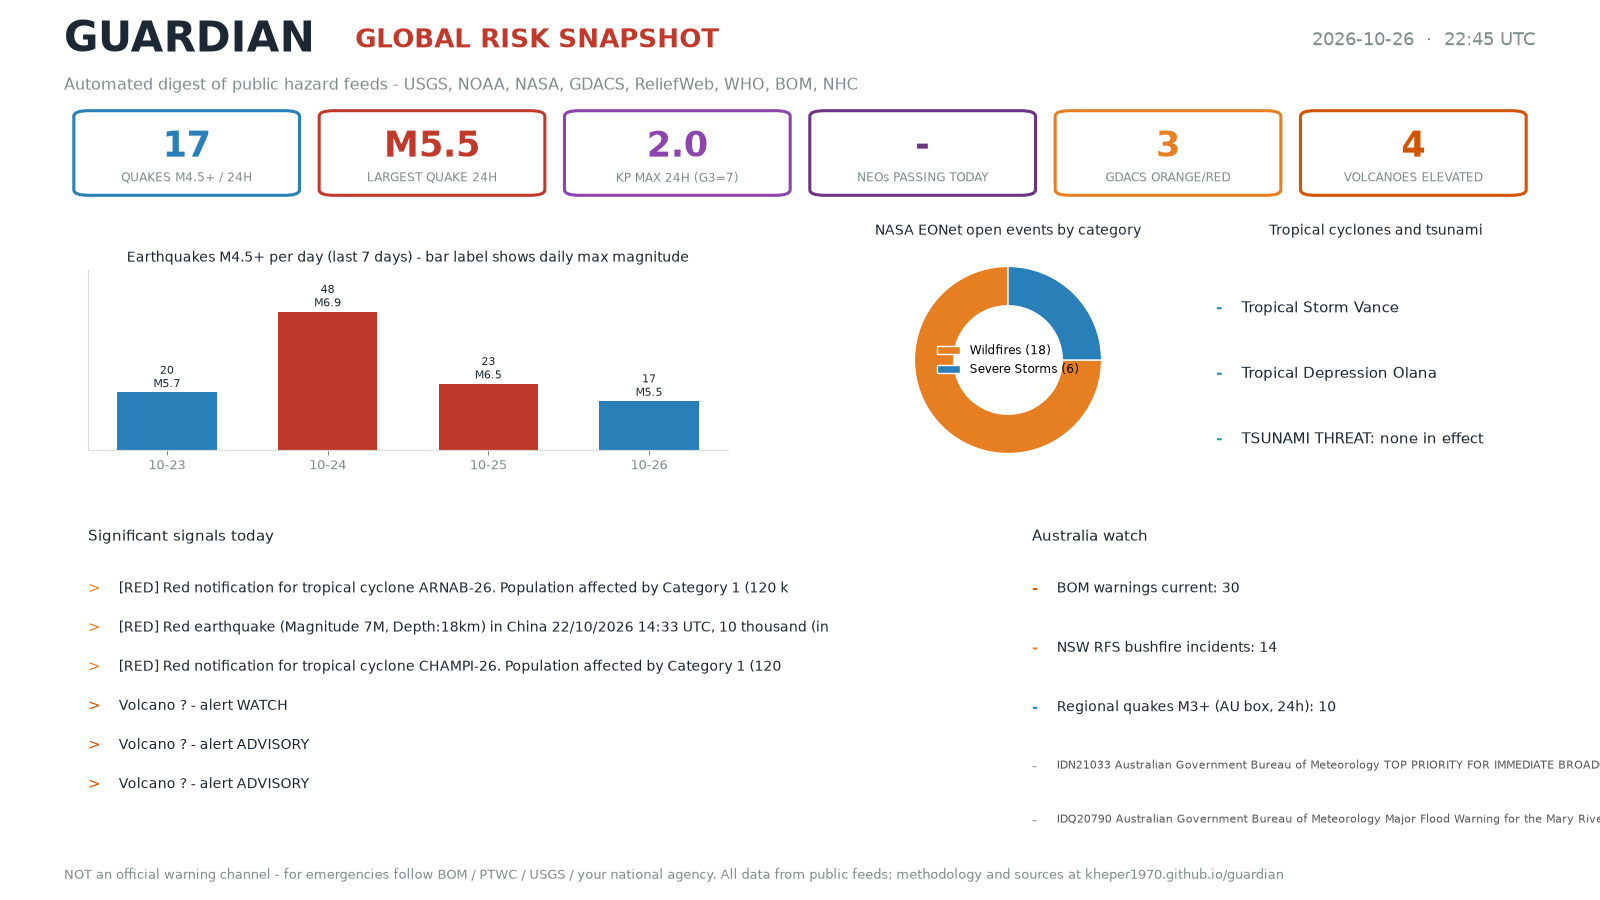
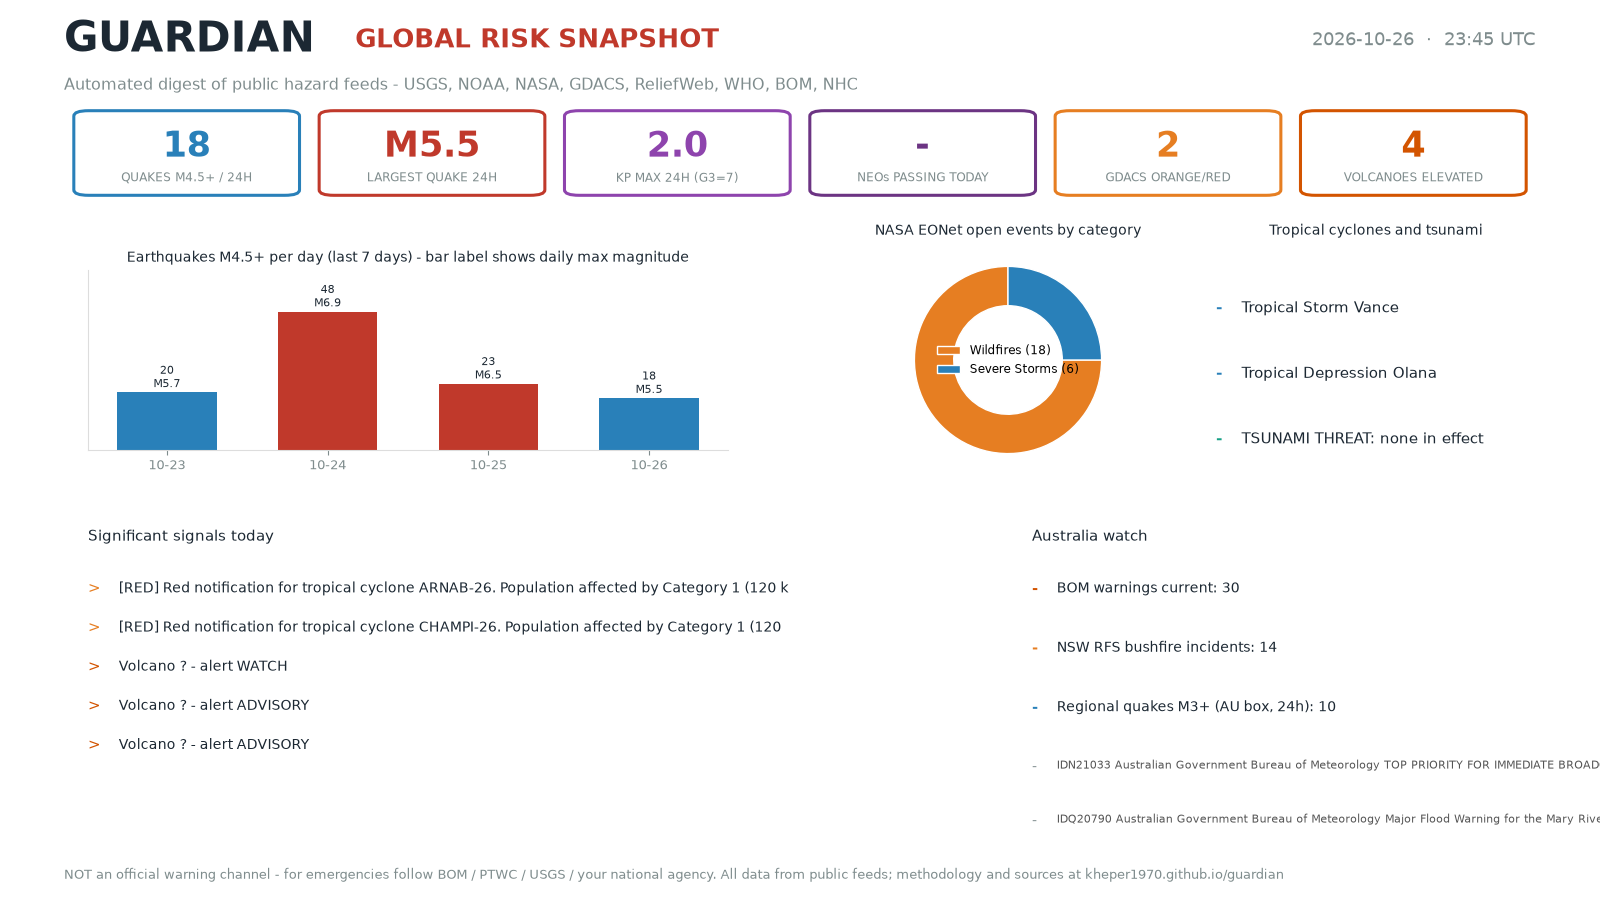
Automated update 2026-10-26T23:50Z

diff --git a/briefing/briefing_2026-10-26.html b/briefing/briefing_2026-10-26.html
@@ -80,7 +80,7 @@ or your national emergency agency.</p>
 <h1>Guardian daily briefing — 2026-10-26</h1>
 <p>Generated automatically from public feeds (USGS, NOAA, NASA, WHO, GDACS, ReliefWeb, EONet, Google News). All times UTC.</p>
 <h2>Earthquakes (M4.5+, last 24h)</h2>
-<p>Count: 17
+<p>Count: 18
 - M5.5 283 km E of Levuka, Fiji (2026-10-26 10:13 UTC)
 - M5.2 205 km NW of Port-Olry, Vanuatu (2026-10-26 12:13 UTC)
 - M5 218 km NW of Port-Olry, Vanuatu (2026-10-26 11:17 UTC)
@@ -89,7 +89,7 @@ or your national emergency agency.</p>
 - M4.9 205 km NW of Port-Olry, Vanuatu (2026-10-26 01:22 UTC)
 - M4.8 South Sandwich Islands region (2026-10-26 11:01 UTC)
 - M4.8 182 km NW of Port-Olry, Vanuatu (2026-10-26 04:53 UTC)
-- ...and 9 more</p>
+- ...and 10 more</p>
 <h2>Space weather</h2>
 <ul>
 <li>Kp now: 0.67; max last 24h: 2.0 (storm threshold G3 = Kp 7.0)</li>
@@ -102,7 +102,6 @@ or your national emergency agency.</p>
 <h2>GDACS significant alerts (orange/red)</h2>
 <ul>
 <li>[RED] (2026-10-26 01:51 UTC) Red notification for tropical cyclone ARNAB-26. Population affected by Category 1 (120 km/h) wind speeds or higher is 6.028 million .</li>
-<li>[RED] (2026-10-22 14:54 UTC) Red earthquake (Magnitude 7M, Depth:18km) in China 22/10/2026 14:33 UTC, 10 thousand (in MMI&gt;=VII).</li>
 <li>[RED] (2026-10-14 14:31 UTC) Red notification for tropical cyclone CHAMPI-26. Population affected by Category 1 (120 km/h) wind speeds or higher is 0.291 million .</li>
 </ul>
 <h2>Tsunami (NOAA NTWC)</h2>
@@ -157,35 +156,35 @@ or your national emergency agency.</p>
 </ul>
 <h2>Food security watch (Google News: famine keywords)</h2>
 <ul>
-<li>Sudan: Famine Risk Is Rising in Sudan As 19.5 Million Face Acute Hunger - UK-Led Warning - allAfrica.com (Mon, 26 Oct 2026)</li>
 <li>UK households urged to prepare for emergencies and ‘attacks’ in new government guidance - The Independent (Mon, 26 Oct 2026)</li>
-<li>Food insecurity and child malnutrition worsen in Afghanistan despite strong agricultural season - World Food Program USA (Thu, 15 Oct 2026)</li>
+<li>Sudan: Famine Risk Is Rising in Sudan As 19.5 Million Face Acute Hunger - UK-Led Warning - allAfrica.com (Mon, 26 Oct 2026)</li>
 <li>UK, 31 partners warn of rising famine risk in Sudan, call for urgent action - Anadolu Ajansı (Fri, 23 Oct 2026)</li>
 <li>Food insecurity hits Uganda as government, UN appeal for urgent action - Daily Monitor (Mon, 26 Oct 2026)</li>
-<li>Can emergency cash buy food security? - UNU | United Nations University (Wed, 08 Jul 2026)</li>
+<li>FAO's Global Emergency and Resilience Appeal 2026 | FAO Emergency and Resilience - Food and Agriculture Organization (Mon, 19 Oct 2026)</li>
+<li>Somalia - UN World Food Programme (Mon, 24 Aug 2026)</li>
 </ul>
 <h2>Australia watch (ABC News, NSW RFS, USGS AU quakes, GNews AU, health.gov.au)</h2>
 <ul>
-<li>Choreographer behind Kylie's grand final show prepares to reveal final work (Mon, 26 Oct 2026)</li>
-<li>Veteran rugby prop cited for allegedly grabbing opponent's genitals (Mon, 26 Oct 2026)</li>
-<li>Country residents paying three times to keep local doctors (Mon, 26 Oct 2026)</li>
-<li>Breaking: Earthquake reported by residents around Adelaide (Mon, 26 Oct 2026)</li>
-<li>Fines of up to $120k for dumping pet fish in Adelaide river (Mon, 26 Oct 2026)</li>
-<li>NSW RFS current incidents: 10 (0 at Warning level)</li>
+<li>Kane breaks 25-year English drought to claim top football award (Mon, 26 Oct 2026)</li>
+<li>Armed bandits killed in getaway car rollover and shootout with PNG police (Mon, 26 Oct 2026)</li>
+<li>Dying SES employee fights to have workers' compensation claim recognised (Mon, 26 Oct 2026)</li>
+<li>Sydney house erupts in flames in suspected arson attack (Mon, 26 Oct 2026)</li>
+<li>Outback mining jobs are on the rise, with no workers to fill them (Mon, 26 Oct 2026)</li>
+<li>NSW RFS current incidents: 13 (0 at Warning level)</li>
 <li>AU-region quakes (24h): 10, max M4.8</li>
 <li>M4.7 98 km S of Encounter Bay, Australia</li>
 <li>M4.8 41 km WNW of Kupang, Indonesia</li>
 <li>M4.3 248 km SW of Tambolaka, Indonesia</li>
 <li>AU emergency headlines:</li>
-<li>Multiple flood warnings as Queensland braces for more wild weather - ABC News &amp; Headlines – Australian Broadcasting Corporation (Sat, 24 Oct 2026)</li>
 <li>Flood warnings and water shortages after storm - Yahoo News Australia (Mon, 26 Oct 2026)</li>
 <li>Dairy farmer and former councillor found dead in Queensland floods - Nine.com.au (Mon, 26 Oct 2026)</li>
-<li>‘Unusually large’ multi-state storm causing severe weather for Australia’s east – with more on the way - The Guardian (Sun, 25 Oct 2026)</li>
+<li>Woman spearheads bushfire safety push after friends 'didn't know what to do' - ABC News &amp; Headlines – Australian Broadcasting Corporation (Mon, 26 Oct 2026)</li>
 <li>Ex-councillor, farmer dies in floodwaters - News.com.au (Mon, 26 Oct 2026)</li>
+<li>‘Unusually large’ multi-state storm causing severe weather for Australia’s east – with more on the way - The Guardian (Sun, 25 Oct 2026)</li>
 <li>$245 million to strengthen local manufacturing for Australia’s defence capability - Marine Business News (Mon, 26 Oct 2026)</li>
-<li>To secure supply, Australia needs to engage with Africa’s mineral sovereignty - The Strategist | ASPI's analysis and commentary site (Mon, 26 Oct 2026)</li>
 <li>Former Rio Tinto executive tapped for major Defence role - AFR (Mon, 26 Oct 2026)</li>
 <li>Navantia Australia to launch underwater technology hub in Melbourne - Asia Pacific Defence Reporter (Mon, 26 Oct 2026)</li>
+<li>To secure supply, Australia needs to engage with Africa’s mineral sovereignty - The Strategist | ASPI's analysis and commentary site (Mon, 26 Oct 2026)</li>
 <li>health.gov.au:</li>
 <li>Secondary navigation</li>
 <li>You are here</li>

diff --git a/index.html b/index.html
@@ -85,8 +85,8 @@ or your national emergency agency.</p>
 refreshes with every publish.</p>
 </div>
 <div class="card"><h2 style="margin-top:0">Latest snapshot statistics</h2>
-<div class="statgrid"><div class="stat"><div class="n">17</div><div class="l">quakes M4.5+ / 24h</div></div><div class="stat"><div class="n">M5.5</div><div class="l">largest quake</div></div><div class="stat"><div class="n">2.0</div><div class="l">Kp max 24h</div></div><div class="stat"><div class="n">None</div><div class="l">NEOs today</div></div><div class="stat"><div class="n">3</div><div class="l">GDACS orange/red</div></div><div class="stat"><div class="n">4</div><div class="l">volcanoes elevated</div></div></div>
-<p style="color:#666666;font-size:.9rem">Snapshot taken 2026-10-26T22:45:02.049709+00:00 UTC.
+<div class="statgrid"><div class="stat"><div class="n">18</div><div class="l">quakes M4.5+ / 24h</div></div><div class="stat"><div class="n">M5.5</div><div class="l">largest quake</div></div><div class="stat"><div class="n">2.0</div><div class="l">Kp max 24h</div></div><div class="stat"><div class="n">None</div><div class="l">NEOs today</div></div><div class="stat"><div class="n">2</div><div class="l">GDACS orange/red</div></div><div class="stat"><div class="n">4</div><div class="l">volcanoes elevated</div></div></div>
+<p style="color:#666666;font-size:.9rem">Snapshot taken 2026-10-26T23:45:01.265498+00:00 UTC.
 Open the <a href="briefing/briefing_2026-10-26.html">full briefing</a> for details and sources.</p>
 </div>
 <div class="card"><h2 style="margin-top:0">Daily infographic</h2>

diff --git a/briefing/briefing_2026-10-26.md b/briefing/briefing_2026-10-26.md
@@ -3,7 +3,7 @@
 Generated automatically from public feeds (USGS, NOAA, NASA, WHO, GDACS, ReliefWeb, EONet, Google News). All times UTC.
 
 ## Earthquakes (M4.5+, last 24h)
-Count: 17
+Count: 18
 - M5.5 283 km E of Levuka, Fiji (2026-10-26 10:13 UTC)
 - M5.2 205 km NW of Port-Olry, Vanuatu (2026-10-26 12:13 UTC)
 - M5 218 km NW of Port-Olry, Vanuatu (2026-10-26 11:17 UTC)
@@ -12,7 +12,7 @@ Count: 17
 - M4.9 205 km NW of Port-Olry, Vanuatu (2026-10-26 01:22 UTC)
 - M4.8 South Sandwich Islands region (2026-10-26 11:01 UTC)
 - M4.8 182 km NW of Port-Olry, Vanuatu (2026-10-26 04:53 UTC)
-- ...and 9 more
+- ...and 10 more
 
 ## Space weather
 - Kp now: 0.67; max last 24h: 2.0 (storm threshold G3 = Kp 7.0)
@@ -25,7 +25,6 @@ Count: None
 
 ## GDACS significant alerts (orange/red)
 - [RED] (2026-10-26 01:51 UTC) Red notification for tropical cyclone ARNAB-26. Population affected by Category 1 (120 km/h) wind speeds or higher is 6.028 million .
-- [RED] (2026-10-22 14:54 UTC) Red earthquake (Magnitude 7M, Depth:18km) in China 22/10/2026 14:33 UTC, 10 thousand (in MMI&gt;=VII).
 - [RED] (2026-10-14 14:31 UTC) Red notification for tropical cyclone CHAMPI-26. Population affected by Category 1 (120 km/h) wind speeds or higher is 0.291 million .
 
 
@@ -75,34 +74,34 @@ Count: None
 - IAEA Helps Latin American and the Caribbean Countries Prepare for Nuclear and Radiological Emergencies Coinciding with Other Crises - International Atomic Energy Agency (Wed, 08 Jul 2026)
 
 ## Food security watch (Google News: famine keywords)
-- Sudan: Famine Risk Is Rising in Sudan As 19.5 Million Face Acute Hunger - UK-Led Warning - allAfrica.com (Mon, 26 Oct 2026)
 - UK households urged to prepare for emergencies and ‘attacks’ in new government guidance - The Independent (Mon, 26 Oct 2026)
-- Food insecurity and child malnutrition worsen in Afghanistan despite strong agricultural season - World Food Program USA (Thu, 15 Oct 2026)
+- Sudan: Famine Risk Is Rising in Sudan As 19.5 Million Face Acute Hunger - UK-Led Warning - allAfrica.com (Mon, 26 Oct 2026)
 - UK, 31 partners warn of rising famine risk in Sudan, call for urgent action - Anadolu Ajansı (Fri, 23 Oct 2026)
 - Food insecurity hits Uganda as government, UN appeal for urgent action - Daily Monitor (Mon, 26 Oct 2026)
-- Can emergency cash buy food security? - UNU | United Nations University (Wed, 08 Jul 2026)
+- FAO's Global Emergency and Resilience Appeal 2026 | FAO Emergency and Resilience - Food and Agriculture Organization (Mon, 19 Oct 2026)
+- Somalia - UN World Food Programme (Mon, 24 Aug 2026)
 
 ## Australia watch (ABC News, NSW RFS, USGS AU quakes, GNews AU, health.gov.au)
-- Choreographer behind Kylie's grand final show prepares to reveal final work (Mon, 26 Oct 2026)
-- Veteran rugby prop cited for allegedly grabbing opponent's genitals (Mon, 26 Oct 2026)
-- Country residents paying three times to keep local doctors (Mon, 26 Oct 2026)
-- Breaking: Earthquake reported by residents around Adelaide (Mon, 26 Oct 2026)
-- Fines of up to $120k for dumping pet fish in Adelaide river (Mon, 26 Oct 2026)
-- NSW RFS current incidents: 10 (0 at Warning level)
+- Kane breaks 25-year English drought to claim top football award (Mon, 26 Oct 2026)
+- Armed bandits killed in getaway car rollover and shootout with PNG police (Mon, 26 Oct 2026)
+- Dying SES employee fights to have workers' compensation claim recognised (Mon, 26 Oct 2026)
+- Sydney house erupts in flames in suspected arson attack (Mon, 26 Oct 2026)
+- Outback mining jobs are on the rise, with no workers to fill them (Mon, 26 Oct 2026)
+- NSW RFS current incidents: 13 (0 at Warning level)
 - AU-region quakes (24h): 10, max M4.8
   - M4.7 98 km S of Encounter Bay, Australia
   - M4.8 41 km WNW of Kupang, Indonesia
   - M4.3 248 km SW of Tambolaka, Indonesia
 - AU emergency headlines:
-  - Multiple flood warnings as Queensland braces for more wild weather - ABC News &amp; Headlines – Australian Broadcasting Corporation (Sat, 24 Oct 2026)
   - Flood warnings and water shortages after storm - Yahoo News Australia (Mon, 26 Oct 2026)
   - Dairy farmer and former councillor found dead in Queensland floods - Nine.com.au (Mon, 26 Oct 2026)
-  - ‘Unusually large’ multi-state storm causing severe weather for Australia’s east – with more on the way - The Guardian (Sun, 25 Oct 2026)
+  - Woman spearheads bushfire safety push after friends 'didn't know what to do' - ABC News &amp; Headlines – Australian Broadcasting Corporation (Mon, 26 Oct 2026)
   - Ex-councillor, farmer dies in floodwaters - News.com.au (Mon, 26 Oct 2026)
+  - ‘Unusually large’ multi-state storm causing severe weather for Australia’s east – with more on the way - The Guardian (Sun, 25 Oct 2026)
   - $245 million to strengthen local manufacturing for Australia’s defence capability - Marine Business News (Mon, 26 Oct 2026)
-  - To secure supply, Australia needs to engage with Africa’s mineral sovereignty - The Strategist | ASPI's analysis and commentary site (Mon, 26 Oct 2026)
   - Former Rio Tinto executive tapped for major Defence role - AFR (Mon, 26 Oct 2026)
   - Navantia Australia to launch underwater technology hub in Melbourne - Asia Pacific Defence Reporter (Mon, 26 Oct 2026)
+  - To secure supply, Australia needs to engage with Africa’s mineral sovereignty - The Strategist | ASPI's analysis and commentary site (Mon, 26 Oct 2026)
 - health.gov.au:
   - Secondary navigation
   - You are here
